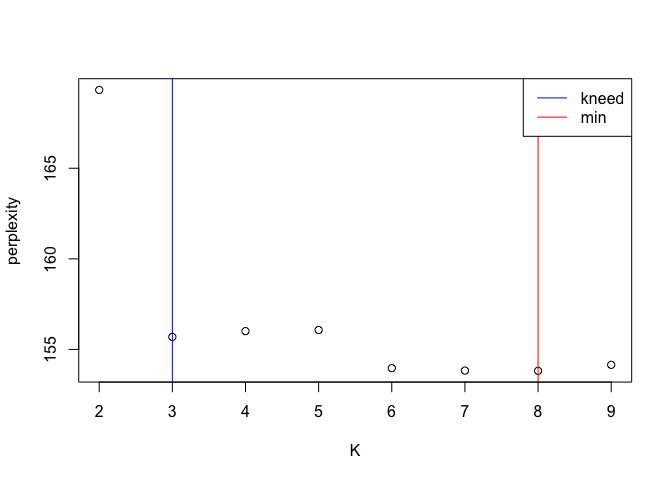
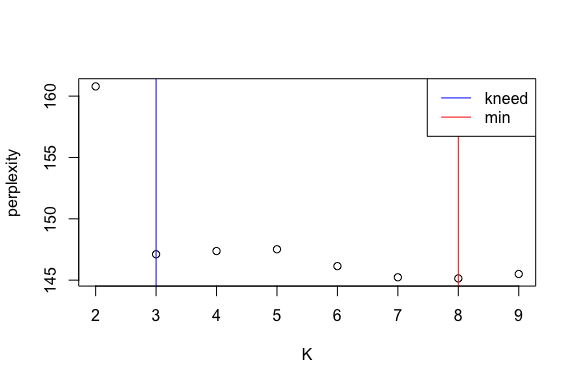
improve minimum viable example

diff --git a/docs/getting_started.md b/docs/getting_started.md
@@ -16,50 +16,51 @@ annot <- mOB$annot
 Feature select
 
 ``` r
-counts <- cleanCounts(cd, min.lib.size = 100, min.reads = 100)
+## remove pixels with too few genes
+counts <- cleanCounts(cd)
 ```
+
+    ## Converting to sparse matrix ...
+
+    ## Filtering matrix with 262 cells and 15928 genes ...
+
+    ## Resulting matrix has 260 cells and 14828 genes
 
 ![](getting_started_files/figure-markdown_github/getting_started_feature-1.png)
 
 ``` r
-corpus <- restrictCorpus(counts, alpha = 0.05, t = 1)
+## feature select for genes
+corpus <- restrictCorpus(counts, t1=0.05, t2 = 1)
 ```
 
+    ## [1] "Restricting to overdispersed genes with alpha=0.05..."
     ## [1] "Calculating variance fit ..."
     ## [1] "Using gam with k=5..."
-    ## [1] "255 overdispersed genes ... "
-    ## [1] "Removing genes present in more than 100% of datasets..."
-    ## [1] "237 genes remaining..."
+    ## [1] "345 overdispersed genes ... "
+    ## [1] "Removing 81 genes present in less than 5% of datasets..."
+    ## [1] "Removing 16 genes present in more than 100% of datasets..."
+    ## [1] "248 genes remaining..."
 
 Choose optimal number of cell-types
 
 ``` r
-lda <- fitLDA(corpus, Ks = seq(2, 9, by = 1), plot=TRUE)
+lda <- fitLDA(corpus, Ks = seq(2, 9, by = 1), plot=TRUE, verbose=FALSE)
 ```
-
-    ## [1] "Time to train LDA models was 0.24mins"
-    ## [1] "Computing perplexity for each fitted model..."
-    ## final e step document 260
-    ## final e step document 260
-    ## final e step document 260
-    ## final e step document 260
-    ## final e step document 260
-    ## final e step document 260
-    ## final e step document 260
-    ## final e step document 260
 
 ![](getting_started_files/figure-markdown_github/getting_started_opt-1.png)
 
 Get best model results
 
 ``` r
-results <- getBetaTheta(lda$models[["8"]])
+results <- getBetaTheta(lda$models[[lda$kOpt2]])
+deconProp <- results$theta
+deconGexp <- results$beta*1000
 ```
 
 Visualize deconvolved cell-type proportions
 
 ``` r
-vizAllTopics(results$theta, pos, 
+vizAllTopics(deconProp, pos, 
              groups = annot, 
              group_cols = rainbow(length(levels(annot))),
              r=0.4)
@@ -70,20 +71,51 @@ vizAllTopics(results$theta, pos,
 Visualize deconvolved cell-type gene expression
 
 ``` r
-marker <- names(sort(results$beta[1, ], decreasing=TRUE))[1]
+celltype <- 7
+highgexp <- names(which(deconGexp[celltype,] > 5))
+log2fc <- sort(log2(deconGexp[celltype,highgexp]/colMeans(deconGexp[-celltype,highgexp])), decreasing=TRUE)
+markers <- names(log2fc)[1:4]
 
-mat <- normalizeCounts(counts)
-gexp <- MERINGUE:::winsorize(scale(mat[marker,])[,1])
-MERINGUE::plotEmbedding(pos[colnames(mat),], col=gexp, cex=3)
-
-## function needs to be simplified
-df <- merge(as.data.frame(pos), as.data.frame(gexp), by = 0)
-rownames(df) <- df$Row.names
-df <- df[,-1]
-colnames(df) <- c('x', 'y', marker)
-vizGeneCounts(df = df,
+df <- merge(as.data.frame(pos), 
+            as.data.frame(t(as.matrix(counts[markers,]))), 
+            by = 0)
+ps <- lapply(markers, function(marker) {
+  vizGeneCounts(df = df,
               gene = marker,
-              size = 5, stroke = 0.01,
+              size = 2, stroke = 0.1,
               plotTitle = marker,
-              showLegend = TRUE)
+              winsorize = 0.05)
+})
+gridExtra::grid.arrange(
+  grobs = ps,
+  layout_matrix = rbind(c(1, 2),
+                        c(3, 4))
+)
 ```
+
+![](getting_started_files/figure-markdown_github/getting_started_expression-1.png)
+
+``` r
+celltype <- 2
+highgexp <- names(which(deconGexp[celltype,] > 5))
+log2fc <- sort(log2(deconGexp[celltype,highgexp]/colMeans(deconGexp[-celltype,highgexp])), decreasing=TRUE)
+markers <- names(log2fc)[1:4]
+
+df <- merge(as.data.frame(pos), 
+            as.data.frame(t(as.matrix(counts[markers,]))), 
+            by = 0)
+ps <- lapply(markers, function(marker) {
+  vizGeneCounts(df = df,
+              gene = marker,
+              size = 2, stroke = 0.1,
+              plotTitle = marker,
+              winsorize = 0.05)
+})
+gridExtra::grid.arrange(
+  grobs = ps,
+  layout_matrix = rbind(c(1, 2),
+                        c(3, 4))
+)
+```
+
+![](getting_started_files/figure-markdown_github/getting_started_expression-2.png)

diff --git a/README.md b/README.md
@@ -1,12 +1,10 @@
 <img src="https://github.com/JEFworks/STdeconvolve/blob/package/docs/img/STdeconvolve_logo.png?raw=true"/>
 
-# STdeconvolve
-
 <!-- badges: start -->
 [![R build status](https://github.com/JEFworks/STdeconvolve/workflows/R-CMD-check/badge.svg)](https://github.com/JEFworks/STdeconvolve/actions)
 <!-- badges: end -->
 
-`STdeconvolve` enables reference-free cell-type deconvolution of multi-cellular spatial transcriptomics data. The overall approach is detailed in the following publications: *COMING SOON*
+`STdeconvolve` enables reference-free cell-type deconvolution of multi-cellular spatial transcriptomics data. The overall approach is detailed in the following publications: **COMING SOON**
 
 ## Overview
 
@@ -23,3 +21,33 @@ require(remotes)
 remotes::install_github('JEFworks/STdeconvolve')
 ```
 
+## Example
+
+```{r}
+library(STdeconvolve)
+## load built in data
+data(mOB)
+pos <- mOB$pos
+cd <- mOB$counts
+annot <- mOB$annot
+## remove pixels with too few genes
+counts <- cleanCounts(cd)
+## feature select for genes
+corpus <- restrictCorpus(counts, t1=0.05, t2 = 1)
+## choose optimal number of cell-types
+lda <- fitLDA(corpus, Ks = seq(2, 9, by = 1), plot=TRUE, verbose=FALSE)
+## get best model results
+results <- getBetaTheta(lda$models[[lda$kOpt2]])
+deconProp <- results$theta
+deconGexp <- results$beta*1000
+## visualize deconvolved cell-type proportions
+vizAllTopics(deconProp, pos, 
+             groups = annot, 
+             group_cols = rainbow(length(levels(annot))),
+             r=0.4)
+```
+
+<img src="https://github.com/JEFworks/STdeconvolve/blob/package/docs/getting_started_files/figure-markdown_github/getting_started_proportions-1.png?raw=true"/>
+
+## Tutorials
+- [Getting Started with STdeconvolve](https://github.com/JEFworks/STdeconvolve/blob/package/docs/getting_started.md)
